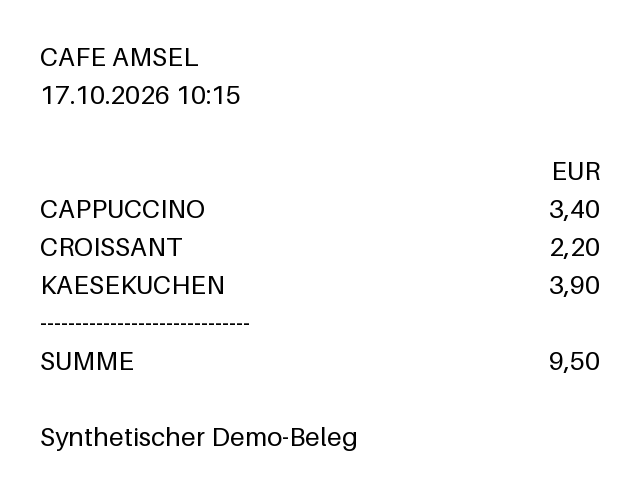
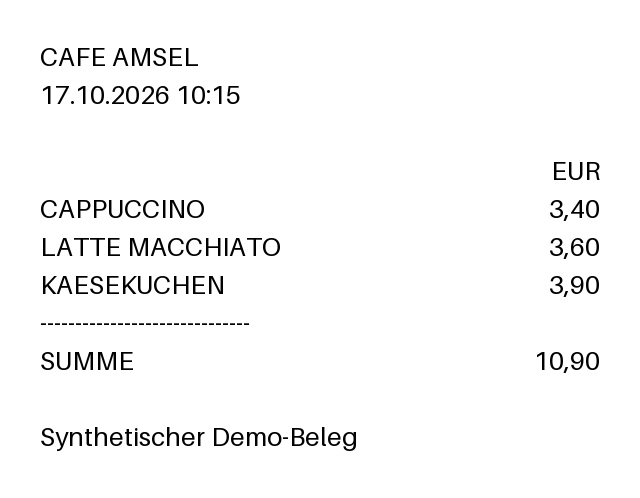
F12: demo PNGs checked pixel for pixel (Pillow/FreeType versions in the message); cafe receipt all eating out (code-review, backend-dev) (with its wiki updates)

Changed region(s): [[0.0625, 0.4518, 0.4375, 0.512], [0.8438, 0.6928, 0.9062, 0.753], [0.8438, 0.4819, 0.9375, 0.512]]

diff --git a/tests/unit/test_make_demo_receipts.py b/tests/unit/test_make_demo_receipts.py
@@ -3,8 +3,9 @@
 from decimal import Decimal
 from pathlib import Path
 
+import PIL
 import pytest
-from PIL import Image
+from PIL import Image, ImageChops, features
 
 from app.domain.categorize import normalize
 from app.services.item_categories import load_seed
@@ -52,6 +53,13 @@ def test_supermarket_and_cafe_each_have_an_item_the_seed_table_does_not_know(
     assert _unknown_names(_receipt(prefix))
 
 
+def test_cafe_items_the_seed_knows_are_all_eating_out() -> None:
+    """A cafe purchase must not land under groceries; only the unknown item is left open."""
+    seed = load_seed()
+    names = {normalize(name).name for name, _ in _receipt("demo-02").items}
+    assert {seed[n] for n in names if n in seed} == {"eating_out"}
+
+
 def test_kiosk_unknowns_all_appear_on_the_supermarket_receipt() -> None:
     """After the choice on demo-01, demo-03 is fully categorised: it shows reuse, no new pick."""
     supermarket = {normalize(name).name for name, _ in _receipt("demo-01").items}
@@ -71,3 +79,19 @@ def test_committed_receipts_exist_and_open() -> None:
             assert image.format == "PNG"
             assert image.width == demo.WIDTH
             assert image.height == 2 * demo.MARGIN + demo.LINE * len(demo.lines(receipt))
+
+
+@pytest.mark.parametrize("receipt", demo.RECEIPTS, ids=lambda r: r.file)
+def test_committed_receipts_match_the_script_pixel_for_pixel(receipt) -> None:
+    """An item edit that keeps the line count must not leave a stale PNG behind."""
+    path = COMMITTED / receipt.file
+    with Image.open(path) as image:
+        committed = image.convert("RGB")
+    rendered = demo.render(receipt)
+    assert rendered.size == committed.size, f"{path.name} is stale: run `make demo-receipts`"
+    diff = ImageChops.difference(rendered, committed).getbbox()
+    versions = f"Pillow {PIL.__version__}, FreeType {features.version('freetype2')}"
+    assert diff is None, (
+        f"{path.name} differs from the script in {diff}: run `make demo-receipts` "
+        f"({versions}; the committed PNGs were rendered with Pillow 12.3.0)"
+    )

diff --git a/scripts/make_demo_receipts.py b/scripts/make_demo_receipts.py
@@ -60,11 +60,11 @@ RECEIPTS: tuple[DemoReceipt, ...] = (
         printed_date="17.10.2026 10:15",
         items=(
             ("CAPPUCCINO", Decimal("3.40")),
-            ("CROISSANT", Decimal("2.20")),
+            ("LATTE MACCHIATO", Decimal("3.60")),
             ("KAESEKUCHEN", Decimal("3.90")),
         ),
-        printed_total=Decimal("9.50"),
-        purpose="eating out, with one uncategorised item (kaesekuchen)",
+        printed_total=Decimal("10.90"),
+        purpose="all eating out, with one uncategorised item (kaesekuchen)",
     ),
     DemoReceipt(
         file="demo-03-kiosk-total-mismatch.png",

diff --git a/docs/wiki/decisions/0022-demo-data-by-explicit-command.md b/docs/wiki/decisions/0022-demo-data-by-explicit-command.md
@@ -23,9 +23,11 @@ Scenarios 2 and 3 must work "on the seeded demo data" ([roadmap](../plan/roadmap
 ## F12 addition (2026-10-20)
 The seed covers scenarios 2 and 3. Scenario 1 needs a photo to upload, and the eval photos are private ([0028](0028-evaluation-truth-and-scoring.md)). So `scripts/make_demo_receipts.py` (`make demo-receipts`, tested in `tests/unit/test_make_demo_receipts.py`) renders three synthetic receipts into `data/demo/receipts/`, and they are committed:
 - a supermarket with seed categories, a Pfand line and one unknown item
-- a café with an unknown item
+- a café whose known items (cappuccino, latte macchiato) are all eating out, plus one unknown item (KAESEKUCHEN), 10,90 in total. After the second `/code-review`, CROISSANT was replaced by LATTE MACCHIATO, because the seed maps croissant to groceries, which put a café purchase under groceries. A test checks that every known item on the café receipt maps to `eating_out`.
 - a kiosk with only known items and CHIPS PAPRIKA again, so the category picked on the supermarket receipt is reused and nothing new needs a category; its printed total (5,29) is 1,00 more than the items (4,29), which gives a sum flag. After `/code-review`, HARIBO GOLDBAEREN was dropped: as a second unknown item it blocked confirming the reuse case. The test checks that every unknown item on the kiosk receipt also appears on the supermarket receipt.
 
 Seed the history first, because `make seed-demo` only loads into an empty database, then upload the receipts in order.
+
+Each committed PNG is compared pixel for pixel with the script's render, so a change to the receipt data needs `make demo-receipts` in the same commit. A newer Pillow 12.x could move glyph edges and fail this check with no change to the content; the failure message names the Pillow and FreeType versions (rendered with 12.3.0), and re-rendering fixes it. The check isn't loosened.
 
 The shops are fictional and the receipts carry no address or payment data. The text is ASCII because Pillow's bundled font has no umlauts or euro sign. The printed dates are October 2026, so after October 2028 they fall outside the 2-year date rule and get flagged.

diff --git a/docs/wiki/decisions/0030-default-model-qwen2-5vl-3b.md b/docs/wiki/decisions/0030-default-model-qwen2-5vl-3b.md
@@ -39,6 +39,6 @@ The latency was measured on the student's Apple Silicon host ([ai-spike](../back
   - The first `docker compose up -d --build` built the image and created the volume and network, but couldn't start: port 8000 was already taken on the host (`bind: address already in use`). That's the environment, not the compose file; the README now explains `BUDGIE_PORT`.
   - `BUDGIE_PORT=8001 docker compose up -d` started; health `db: ok`, `llm: ok`, `model: qwen2.5vl:3b`.
   - **Passed (2026-10-20):** all three demo receipts were uploaded through the UI. qwen read every merchant, date, total and item correctly.
-    - demo-01 and demo-02: the unknown item (CHIPS PAPRIKA, KAESEKUCHEN) was flagged uncategorised; every other item came from the seed table.
+    - demo-01 and demo-02 (the café still with CROISSANT, since replaced): the unknown item (CHIPS PAPRIKA, KAESEKUCHEN) was flagged uncategorised; every other item came from the seed table.
     - demo-03 (the version with HARIBO GOLDBAEREN; since replaced, see [0022](0022-demo-data-by-explicit-command.md)): the sum flag fired ("Items sum to 5.78 but total is 6.78"), and CHIPS PAPRIKA was categorised "from your earlier choice".
     - The same test found a UI bug: "Choose a category before confirming" showed on items that already had a category. A class `display` rule beat `[hidden]`; it was fixed with a global `[hidden] { display: none !important; }` and a static test ([workflow](../plan/workflow.md#ci-checks)).

diff --git a/README.md b/README.md
@@ -29,7 +29,7 @@ The responsibility split is:
 **Reproducible demo data:**
 - `data/demo/receipts/` holds three synthetic receipt photos for scenario 1, with fictional shops and no personal data. `make demo-receipts` re-renders them.
   - `demo-01-supermarket.png`: seed categories, a Pfand line and one unknown item (CHIPS PAPRIKA)
-  - `demo-02-cafe.png`: eating out, with one unknown item
+  - `demo-02-cafe.png` (Cafe Amsel, 10,90): all eating out, with one item to categorise (KAESEKUCHEN)
   - `demo-03-kiosk-total-mismatch.png`: no new item to categorise. CHIPS PAPRIKA gets the category you picked on demo-01, and the printed total (5,29) is 1,00 more than the items (4,29), so the review shows a sum flag. Upload the receipts in order and confirm demo-01 first.
 - `make seed-demo` (or `python -m app.demo_seed` in the container) loads several months of confirmed expenses, budgets and a goal into an **empty** database. Scenarios 2 and 3 run on this data ([0022](docs/wiki/decisions/0022-demo-data-by-explicit-command.md)). Seed first, then upload the demo receipts.
 
